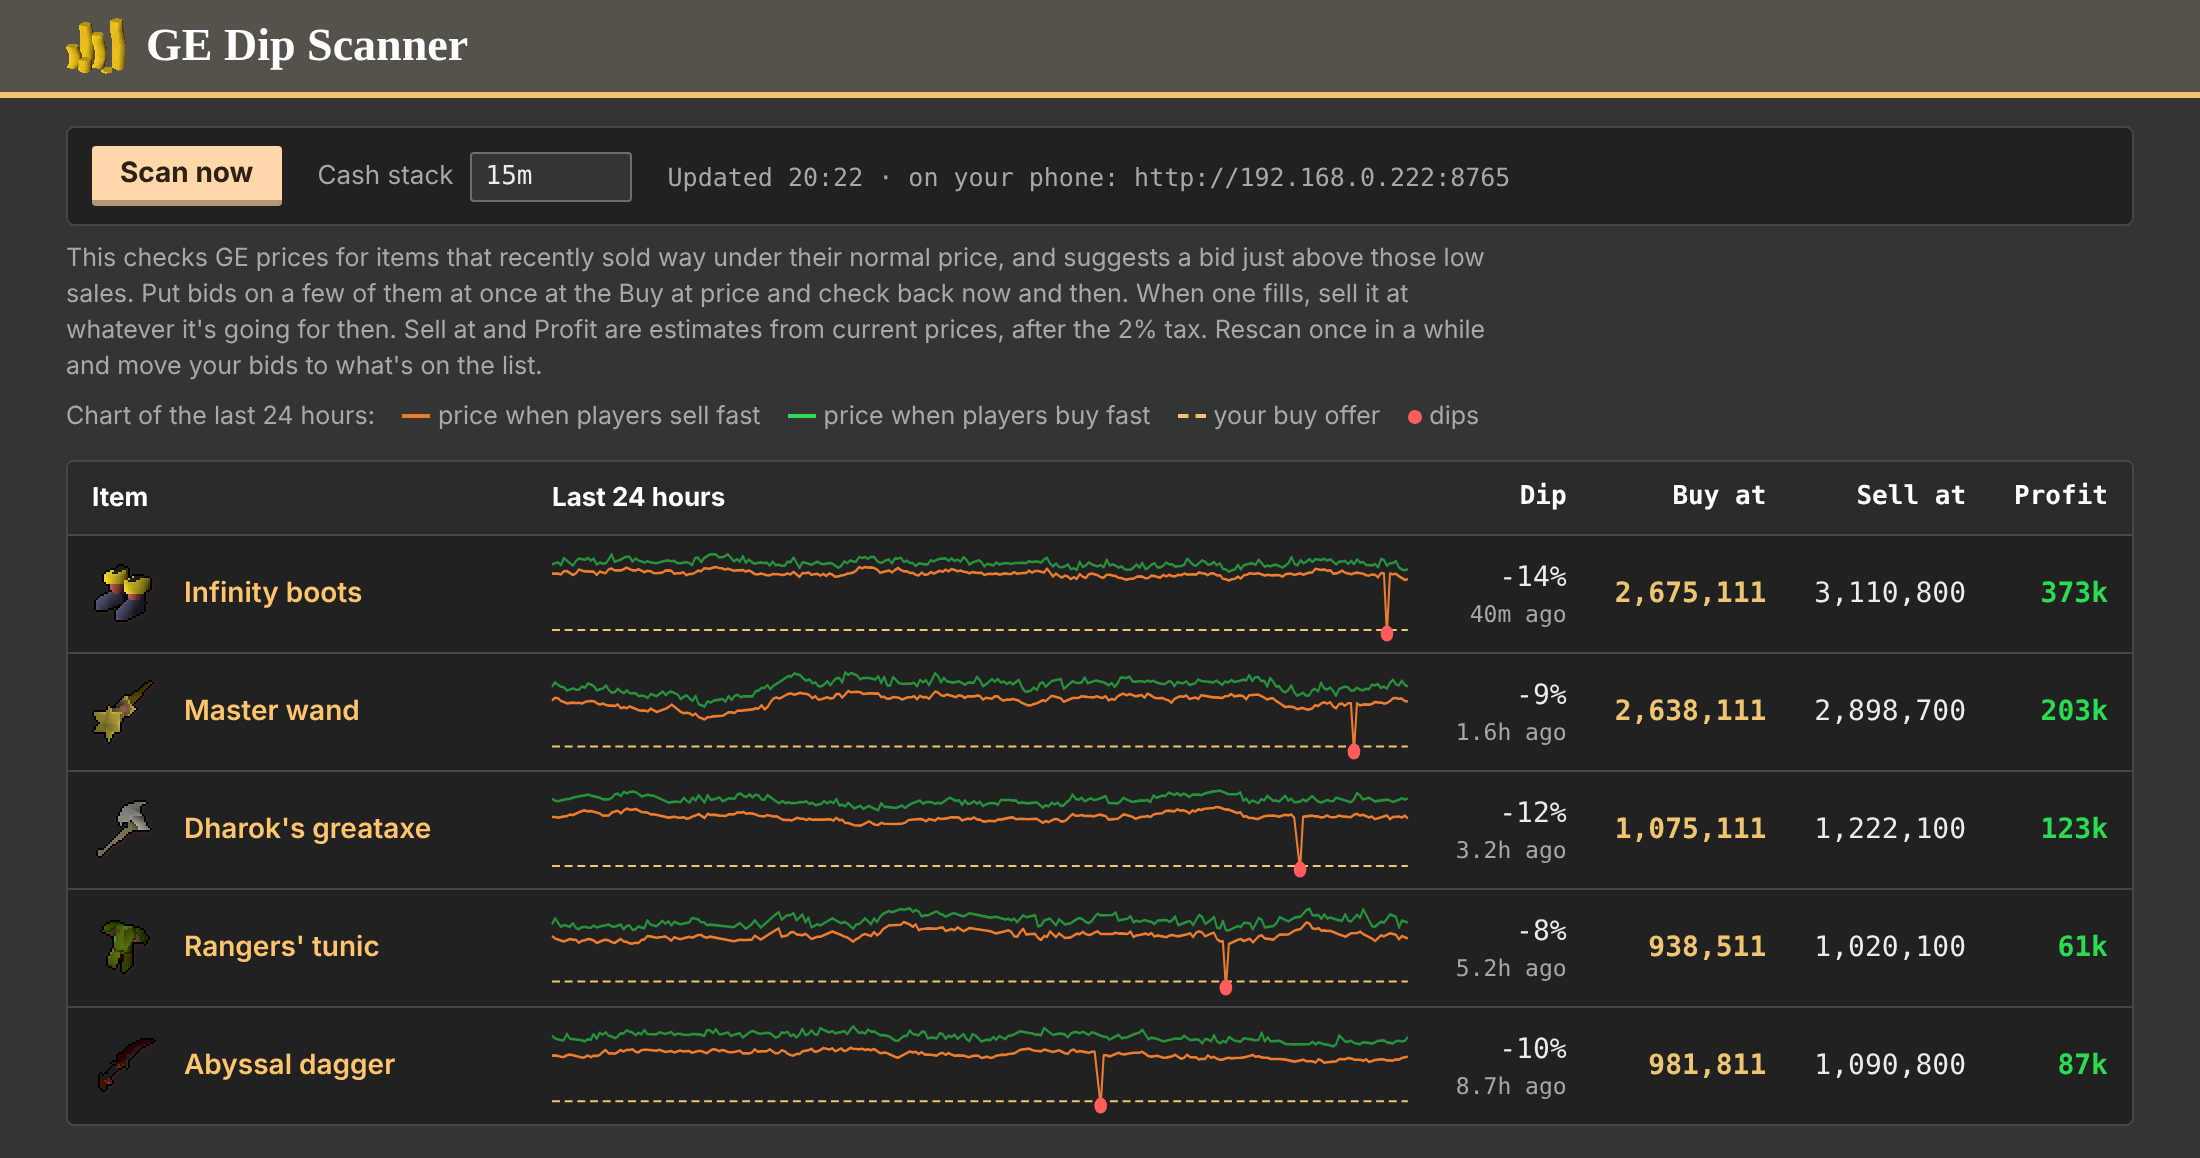
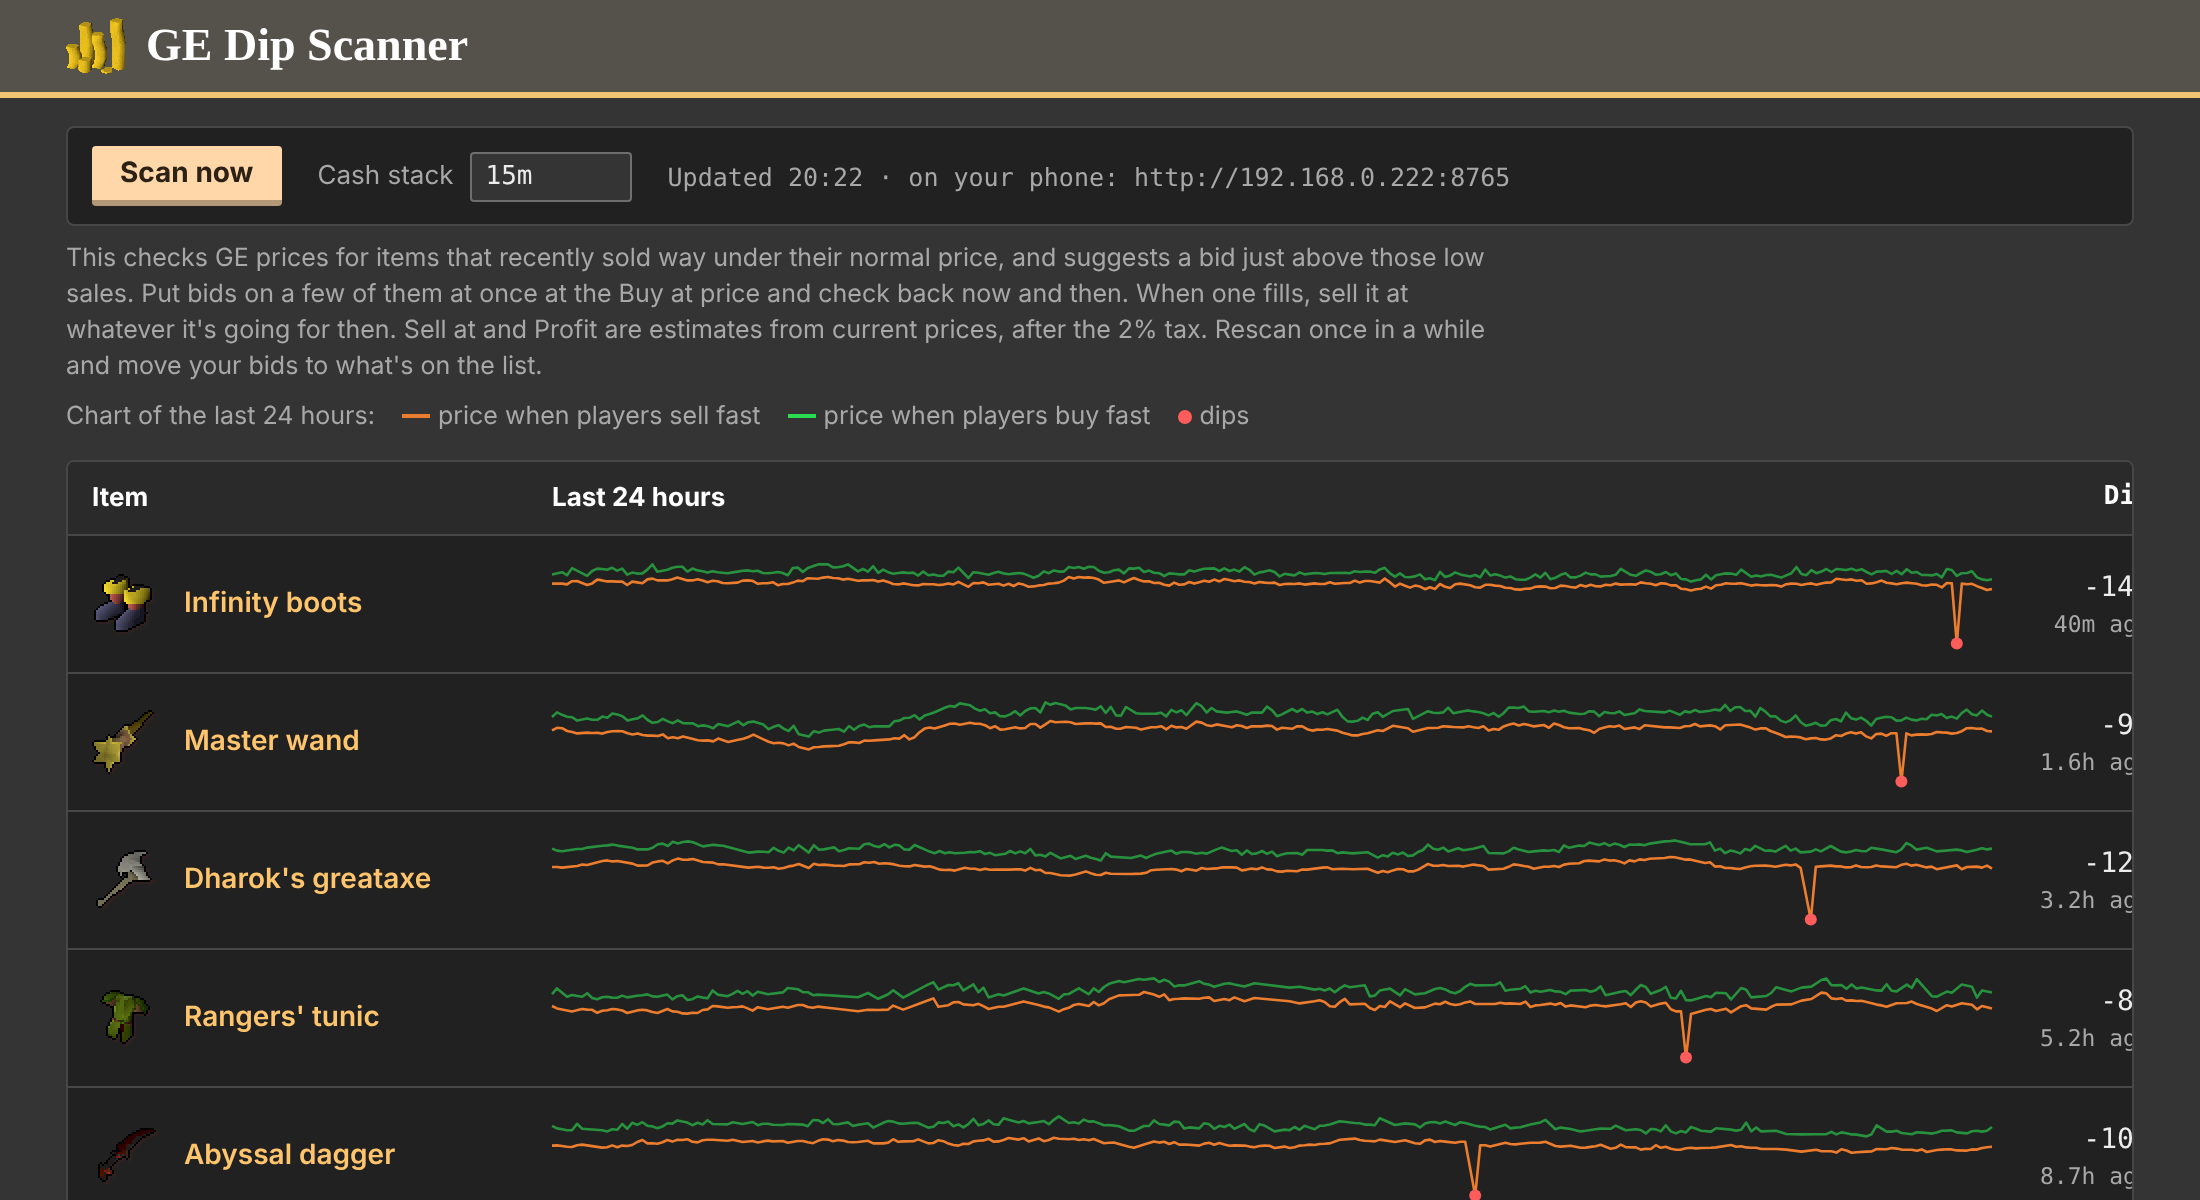
Charts: no stretching, no bid line, dots kept inside the row
The chart was stretched to fill the column, which squashed the dots into ovals.
It now draws at a fixed size (wider and a little taller than before). The dashed
bid line is gone, since Buy at has the number. Dots are smaller and stay inside
the chart instead of touching the next row.

diff --git a/dip_scanner.py b/dip_scanner.py
@@ -558,7 +558,7 @@ def scan_item(it, cfg, cache, now, latest):
 
 # ----------------------------------------------------------------------------- HTML report
 
-def sparkline(r, w=540, h=46):
+def sparkline(r, w=720, h=56):
     pts = r["pts"]
     if not pts:
         return ""
@@ -568,8 +568,10 @@ def sparkline(r, w=540, h=46):
     pad = (hi - lo) * 0.08 or 1
     lo, hi = lo - pad, hi + pad
 
+    inset = 5   # keeps the dip dots inside the chart instead of touching the next row
+
     def y_of(v):
-        return h - (v - lo) / (hi - lo) * h
+        return h - inset - (v - lo) / (hi - lo) * (h - 2 * inset)
 
     def line(k, cls):
         seg = " ".join(f"{(p['timestamp'] - t0) / max(t1 - t0, 1) * w:.1f},{y_of(p[k]):.1f}"
@@ -579,15 +581,10 @@ def sparkline(r, w=540, h=46):
     dots = ""
     for e in r["spikes"]:
         x = (e["ts"] - t0) / max(t1 - t0, 1) * w
-        dots += (f'<circle cx="{x:.1f}" cy="{y_of(e["low"]):.1f}" r="4"><title>-{e["pct"]:.1f}% at '
+        dots += (f'<circle cx="{x:.1f}" cy="{y_of(e["low"]):.1f}" r="3"><title>-{e["pct"]:.1f}% at '
                  f'{gp(e["low"])}</title></circle>')
-    bid_line = ""
-    if r["pick"]:
-        by = y_of(r["pick"]["bid"])
-        if 0 <= by <= h:
-            bid_line = f'<line class="bid" x1="0" x2="{w}" y1="{by:.1f}" y2="{by:.1f}"/>'
-    return (f'<svg viewBox="0 0 {w} {h}" width="{w}" height="{h}" preserveAspectRatio="none" class="spark">'
-            f'{bid_line}{line("avgHighPrice", "hi")}{line("avgLowPrice", "lo")}{dots}</svg>')
+    return (f'<svg viewBox="0 0 {w} {h}" width="{w}" height="{h}" class="spark">'
+            f'{line("avgHighPrice", "hi")}{line("avgLowPrice", "lo")}{dots}</svg>')
 
 
 def icon_html(it):
@@ -645,9 +642,8 @@ main {{ padding:0 max(16px, 3vw) }}
 .legend p {{ margin:6px 0 }}
 .legend i {{ display:inline-block; width:14px; height:2px; vertical-align:middle; margin:0 4px 0 10px }}
 .wrap {{ overflow-x:auto; background:var(--panel); border:1px solid var(--line); border-radius:4px }}
-table {{ border-collapse:collapse; width:100%; min-width:760px }}
-td.chart {{ width:45% }}
-td.chart .spark {{ width:100%; min-width:260px }}
+table {{ border-collapse:collapse; width:100%; min-width:1100px }}
+
 th {{ text-align:left; font-size:13px; color:#fff; padding:9px 12px; border-bottom:1px solid var(--line);
   font-weight:700; white-space:nowrap; background:#2a2a2a }}
 td {{ padding:6px 12px; border-bottom:1px solid var(--line); vertical-align:middle }}
@@ -670,7 +666,6 @@ th.num {{ text-align:right }}
 .spark polyline {{ fill:none; stroke-width:1.3; stroke-linejoin:round }}
 .spark .hi {{ stroke:var(--buy); opacity:.6 }}
 .spark .lo {{ stroke:var(--sell) }}
-.spark .bid {{ stroke:var(--gold); stroke-dasharray:5 3 }}
 .spark circle {{ fill:var(--dip) }}
 .bar {{ display:flex; flex-wrap:wrap; align-items:center; gap:10px 18px; margin:14px 0 4px;
   padding:9px 12px; background:var(--panel); border:1px solid var(--line); border-radius:4px }}
@@ -694,7 +689,7 @@ th.num {{ text-align:right }}
   td {{ padding:0; border:0 }}
   td.name {{ grid-column:1 / -1; min-width:0 }}
   td.chart {{ grid-column:1 / -1; order:1 }}
-  td.chart {{ width:auto }}
+  td.chart .spark {{ width:100%; height:auto }}
   td.num {{ text-align:left; font-size:16px }}
   td.num::before {{ content:attr(data-label); display:block; font:600 11px var(--sans); color:var(--muted);
     text-transform:uppercase; letter-spacing:.04em }}
@@ -710,8 +705,7 @@ price and check back now and then. When one fills, sell it at whatever it's goin
 and Profit are estimates from current prices, after the 2% tax. Rescan once in a while and move your
 bids to what's on the list.</p>
 <p>Chart of the last 24 hours: <i style="background:var(--sell)"></i>price when players sell fast
-<i style="background:var(--buy)"></i>price when players buy fast <i style="border-top:2px dashed var(--gold)"></i>your buy offer
-<i class="dot"></i>dips</p>
+<i style="background:var(--buy)"></i>price when players buy fast <i class="dot"></i>dips</p>
 </div>
 <div class="wrap"><table>
 <thead><tr><th>Item</th><th>Last 24 hours</th><th class="num">Dip</th><th class="num">Buy at</th>
